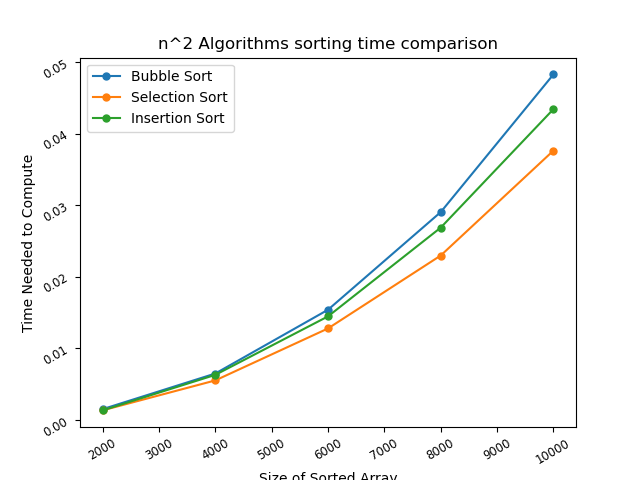
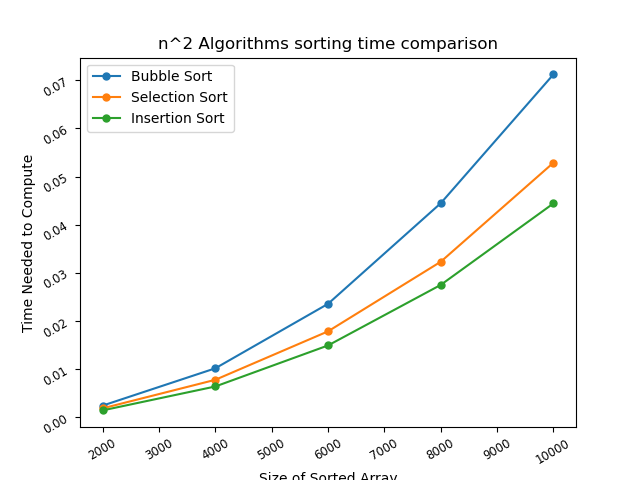
added_list_copying

diff --git a/selection_sort.py b/selection_sort.py
@@ -1,4 +1,5 @@
 def selection_sort(arr: list) -> list:
+    arr = arr.copy()
     for i in range(len(arr)):
         # capture current character
         for j in range(i + 1, len(arr)):

diff --git a/bubble_sort.py b/bubble_sort.py
@@ -1,4 +1,5 @@
 def bubble_sort(arr: list) -> list:
+    arr = arr.copy()
     # Bubble sort algorithm
 
     for i in range(len(arr)):

diff --git a/merge_sort.py b/merge_sort.py
@@ -1,4 +1,5 @@
 def merge_sort(arr: list) -> list:
+    arr = arr.copy()
     list_length = len(arr)
 
     if list_length <= 1:

diff --git a/insertion_sort.py b/insertion_sort.py
@@ -1,4 +1,5 @@
 def insertion_sort(arr: list) -> list:
+    arr = arr.copy()
     for i in range(len(arr)):
 
         j = i

diff --git a/quick_sort.py b/quick_sort.py
@@ -1,4 +1,5 @@
 def quick_sort(arr: list) -> list:
+    arr = arr.copy()
 
     if len(arr) <= 1:
         return arr
